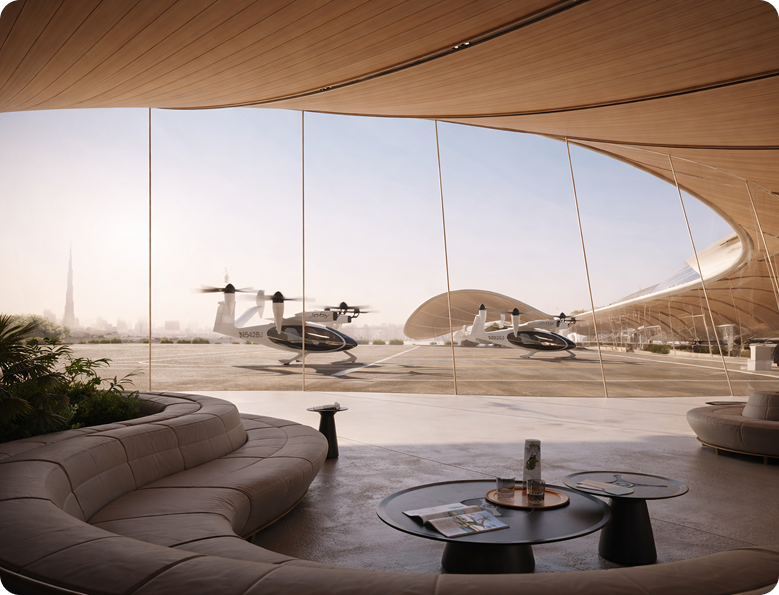
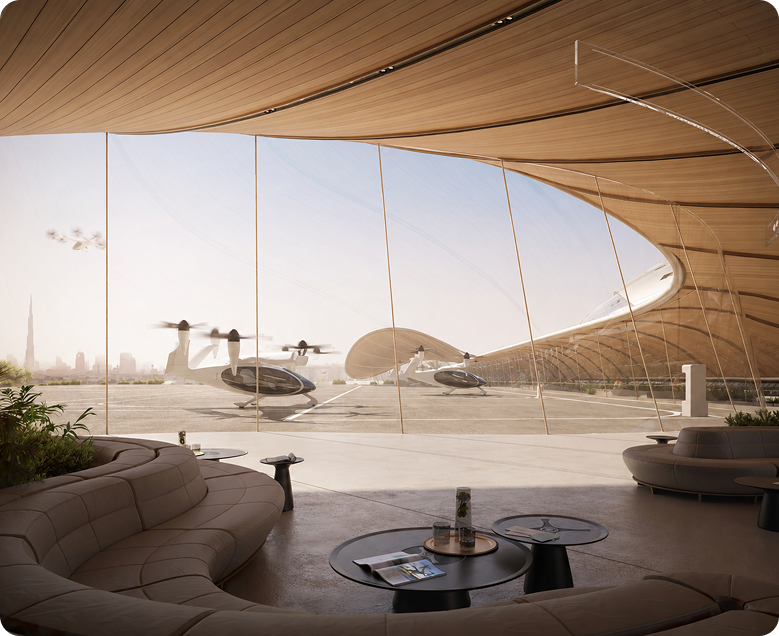
Why Choose Us

diff --git a/components/why-choose-us.tsx b/components/why-choose-us.tsx
@@ -1,19 +1,18 @@
 import Image from "next/image";
-import SectionHeading from "./ui/section-heading";
 import Button from "./ui/grad-button";
-import { ShieldCheck, Settings, Globe, Briefcase } from "lucide-react";
+import SectionHeading from "./ui/section-heading";
 
 const features = [
     {
         title: "Engineered for Compliance & Safety",
-        description: "Our products are designed and manufactured to meet international aviation and safety standards. From lighting systems to structural components, every solution is built to ensure safe operations and regulatory confidence from day one.",
+        description: "Every solution is carefully designed to meet international aviation standards while ensuring safe, stable, and efficient helideck operations. Our systems are developed to support reliable performance while maintaining strict safety and operational compliance requirements.",
         icon: <svg xmlns="http://www.w3.org/2000/svg" width="30" height="30" viewBox="0 0 30 30" fill="none">
             <path fillRule="evenodd" clipRule="evenodd" d="M18.2303 20.9811C18.2303 21.0902 18.1869 21.1948 18.1098 21.2719C18.0327 21.349 17.9281 21.3924 17.819 21.3925L12.3469 21.3926C12.2378 21.3925 12.1333 21.3492 12.0561 21.272C11.979 21.1949 11.9356 21.0903 11.9356 20.9812C11.9356 20.8721 11.979 20.7675 12.0561 20.6904C12.1333 20.6133 12.2378 20.5699 12.3469 20.5699L17.819 20.5697C17.9281 20.5698 18.0327 20.6132 18.1098 20.6903C18.1869 20.7674 18.2303 20.872 18.2303 20.9811ZM28.3012 21.6005C28.5151 21.5239 28.6263 21.2879 28.5497 21.0748C28.5129 20.9721 28.4368 20.8881 28.3382 20.8414C28.2396 20.7947 28.1264 20.789 28.0236 20.8256L26.5428 21.3566C27.6139 19.4169 28.1749 17.2416 28.1749 14.9998C28.1747 7.71905 22.28 1.82502 14.9997 1.8252C12.359 1.82526 9.81114 2.60334 7.6317 4.07622C7.58693 4.10649 7.54857 4.14529 7.5188 4.1904C7.48903 4.23551 7.46844 4.28604 7.45821 4.33911C7.44798 4.39218 7.44831 4.44674 7.45918 4.49968C7.47004 4.55263 7.49124 4.60291 7.52154 4.64766C7.64802 4.83552 7.90416 4.88502 8.09232 4.75788C10.1352 3.37752 12.5236 2.64798 14.9998 2.64792C21.8105 2.64774 27.352 8.18861 27.3522 14.9998C27.3523 17.1962 26.7781 19.3237 25.6847 21.2024L25.0463 19.4194C24.9694 19.2055 24.7337 19.0943 24.5203 19.1713C24.4694 19.1894 24.4226 19.2174 24.3826 19.2537C24.3425 19.2899 24.3101 19.3337 24.287 19.3826C24.2639 19.4314 24.2507 19.4843 24.2481 19.5383C24.2455 19.5922 24.2535 19.6461 24.2718 19.697L25.1944 22.2718C25.2715 22.4912 25.5071 22.6024 25.7263 22.523L28.3012 21.6005ZM22.4785 25.3524C22.4483 25.3077 22.4095 25.2693 22.3645 25.2396C22.3194 25.2099 22.269 25.1893 22.216 25.1791C22.163 25.1688 22.1085 25.1691 22.0556 25.18C22.0027 25.1908 21.9525 25.2119 21.9077 25.2422C19.8649 26.6225 17.4757 27.3521 15.0003 27.3521C8.18886 27.3524 2.64732 21.8111 2.64714 15.0004C2.64708 12.8039 3.22128 10.6764 4.31496 8.79774L4.95372 10.5804C5.03064 10.7945 5.26596 10.9058 5.4798 10.8289C5.53065 10.8107 5.57741 10.7826 5.61742 10.7464C5.65743 10.7101 5.6899 10.6663 5.71298 10.6175C5.73605 10.5687 5.74928 10.5158 5.7519 10.4618C5.75452 10.4079 5.74649 10.354 5.72826 10.3031L4.80498 7.7283C4.72986 7.50942 4.48914 7.3968 4.27302 7.47708L1.69884 8.39964C1.485 8.47626 1.3734 8.71152 1.45038 8.92536C1.46858 8.97624 1.49662 9.02304 1.53292 9.06307C1.56921 9.1031 1.61304 9.13559 1.66191 9.15867C1.71077 9.18174 1.7637 9.19496 1.81768 9.19756C1.87165 9.20016 1.92561 9.19209 1.97646 9.17382L3.45654 8.64354C2.38542 10.5832 1.82436 12.7582 1.82442 15.0004C1.8246 22.2804 7.7202 28.1751 15.0003 28.1749C17.641 28.1749 20.1885 27.3964 22.3679 25.9235C22.4127 25.8933 22.4511 25.8546 22.4809 25.8095C22.5107 25.7644 22.5313 25.7139 22.5416 25.6609C22.5519 25.6078 22.5516 25.5533 22.5408 25.5004C22.53 25.4474 22.5088 25.3971 22.4785 25.3524ZM18.6707 14.9237C18.6707 17.0231 16.9623 18.7317 14.8625 18.7318C12.7631 18.7318 11.0546 17.0233 11.0545 14.9239C11.0545 12.8238 12.7629 11.1156 14.8624 11.1155C16.0243 11.1155 17.0657 11.6391 17.7651 12.4625L14.9369 15.5359L13.3777 13.896C13.2214 13.7314 12.9608 13.7252 12.7962 13.8811C12.7173 13.9564 12.6715 14.0598 12.6687 14.1688C12.6659 14.2778 12.7064 14.3834 12.7813 14.4626L14.6434 16.4216C14.807 16.5943 15.0833 16.5916 15.244 16.4164L18.2378 13.1639C18.5227 13.7067 18.6713 14.3107 18.6707 14.9237ZM20.0471 9.98357C20.0836 9.94375 20.1276 9.91152 20.1765 9.88874C20.2255 9.86596 20.2785 9.85308 20.3325 9.85082C20.3864 9.84857 20.4403 9.857 20.491 9.87562C20.5417 9.89424 20.5882 9.92269 20.6279 9.95934C20.6677 9.99584 20.6999 10.0399 20.7226 10.0888C20.7454 10.1378 20.7582 10.1908 20.7605 10.2448C20.7627 10.2987 20.7542 10.3526 20.7356 10.4033C20.7169 10.454 20.6885 10.5005 20.6518 10.5401L18.8234 12.527C19.2623 13.2493 19.4941 14.0785 19.4934 14.9237C19.4935 17.4768 17.416 19.5541 14.8625 19.5541C12.3095 19.5542 10.2319 17.477 10.2318 14.9239C10.2317 12.3706 12.3092 10.2929 14.8623 10.2928C16.2388 10.2928 17.4763 10.8971 18.3251 11.8536L20.0471 9.98357ZM21.4661 18.4166C22.384 15.5076 22.3237 12.0393 22.239 8.93388C19.6969 8.51298 17.1015 7.6284 14.9998 6.3942C12.8968 7.62876 10.3027 8.51316 7.76004 8.93424C7.67556 12.0397 7.61604 15.508 8.53416 18.4173C9.54546 21.6218 11.6616 23.725 15.0003 24.844C18.3389 23.7248 20.4542 21.6215 21.4661 18.4166ZM22.7012 8.1735C20.0779 7.78332 17.3525 6.86442 15.2136 5.56314C15.1492 5.52387 15.0752 5.5031 14.9998 5.5031C14.9243 5.5031 14.8503 5.52387 14.7859 5.56314C12.6603 6.85962 9.91032 7.78632 7.29768 8.17392C7.20213 8.18815 7.11463 8.23559 7.05057 8.30791C6.9865 8.38023 6.94996 8.4728 6.94734 8.56938C6.85734 11.8256 6.75588 15.5164 7.74984 18.6648C8.8599 22.1819 11.1899 24.4726 14.873 25.6681C14.9555 25.6953 15.0446 25.6953 15.1271 25.6681C18.8102 24.4724 21.1403 22.1816 22.2503 18.6645C23.2438 15.5161 23.1418 11.8253 23.0516 8.56908C23.0492 8.47242 23.0127 8.37971 22.9486 8.30733C22.8845 8.23494 22.7969 8.18754 22.7012 8.1735Z" fill="black" />
         </svg>
     },
     {
         title: "Manufacturing-Driven Quality",
-        description: "Our products are designed and manufactured to meet international aviation and safety standards. From lighting systems to structural components, every solution is built to ensure safe operations and regulatory confidence from day one.",
+        description: "We combine durable materials, precision engineering, and detailed quality control processes to deliver systems built for long-term performance. Every component is manufactured with consistency and accuracy to ensure dependable operation across demanding project environments.",
         icon: <svg xmlns="http://www.w3.org/2000/svg" width="30" height="30" viewBox="0 0 30 30" fill="none">
             <g clipPath="url(#clip0_791_49396)">
                 <path d="M20.7022 20.6579V18.2127H19.1896C19.0919 17.5176 18.9099 16.8371 18.6476 16.1861L19.9566 15.4304L18.7338 13.3129L17.4231 14.0694C16.99 13.5175 16.492 13.0196 15.94 12.5865L16.6967 11.2761L14.5787 10.0535L13.823 11.3622C13.1718 11.1 12.4912 10.9181 11.796 10.8204V9.30805H9.35037V10.8204C8.65522 10.9181 7.97455 11.1 7.32339 11.3622L6.56765 10.0535L4.44967 11.2761L5.20634 12.5865C4.65433 13.0196 4.15639 13.5175 3.72322 14.0694L2.41254 13.3129L1.18969 15.4304L2.49868 16.1861C2.23639 16.8371 2.05442 17.5176 1.9568 18.2127H0.444092V20.6579H1.9568C2.05442 21.3529 2.23639 22.0335 2.49868 22.6845L1.18969 23.4401L2.41254 25.5577L3.72322 24.8011C4.15639 25.3531 4.65433 25.8509 5.20634 26.284L4.44967 27.5944L6.56765 28.817L7.32339 27.5083C7.97453 27.7705 8.65521 27.9525 9.35037 28.0501V29.5625H11.796V28.0501C12.4912 27.9525 13.1718 27.7705 13.823 27.5083L14.5787 28.817L16.6967 27.5944L15.94 26.284C16.492 25.851 16.99 25.3531 17.4231 24.8011L18.7338 25.5577L19.9566 23.4401L18.6476 22.6845C18.9099 22.0335 19.0919 21.3529 19.1896 20.6579H20.7022Z" stroke="black" strokeWidth="0.75" strokeMiterlimit="10" strokeLinejoin="round" />
@@ -41,14 +40,14 @@ const features = [
     },
     {
         title: "Proven in Real-World Installations",
-        description: "Our products are designed and manufactured to meet international aviation and safety standards. From lighting systems to structural components, every solution is built to ensure safe operations and regulatory confidence from day one.",
+        description: "Our solutions are successfully implemented across offshore platforms, rooftop helipads, and industrial aviation facilities worldwide. These completed installations demonstrate our practical experience in delivering reliable systems for complex operational environments and requirements.",
         icon: <svg xmlns="http://www.w3.org/2000/svg" width="30" height="30" viewBox="0 0 30 30" fill="none">
             <path fillRule="evenodd" clipRule="evenodd" d="M25.6165 12.0168C25.6162 12.0219 25.6162 12.0269 25.6155 12.0319L25.4142 19.7553C25.4018 20.0592 25.1287 20.2993 24.8832 20.4545L20.827 23.0088C20.7699 23.0448 20.7228 23.0946 20.6902 23.1536C20.6575 23.2127 20.6403 23.279 20.6402 23.3465V24.4009H16.8068V21.1598C16.8122 20.9575 17.3922 20.373 17.7545 20.1555L21.8313 17.8392C21.8335 17.8382 21.8357 17.8369 21.8377 17.8355C21.9986 17.7402 22.1501 17.7183 22.3239 17.7658C22.4094 17.8315 22.4808 17.9298 22.5393 18.0638C22.5447 18.0813 22.5504 18.0985 22.5579 18.1156C22.6175 18.2524 22.5942 18.3822 22.5549 18.4261C22.4562 18.5308 22.2966 18.6483 22.0812 18.7742L19.8548 20.0667C19.5023 20.2712 19.6513 20.8111 20.0554 20.8111C20.1257 20.8111 20.1947 20.7924 20.2554 20.7569L22.4828 19.4641C22.7603 19.3021 22.9686 19.1466 23.1204 18.9894C23.2908 18.8358 23.4228 18.513 23.3844 18.1527L23.5419 18.0585C23.8692 17.8282 24.0689 17.473 24.1341 17.003C24.1341 17.001 24.1348 16.9986 24.1348 16.9966L24.5088 13.9352L24.7458 12.1C24.7745 11.9973 24.801 11.8639 24.8317 11.7121C24.8694 11.5236 24.9465 11.1394 25.0071 11.0213C25.11 10.8908 25.3198 10.9057 25.4158 11.0742C25.5741 11.3455 25.6394 11.6535 25.6165 12.0168ZM21.3939 27.3742H16.1519V25.1993H21.3939V27.3742ZM26.1084 10.6768C25.9713 10.4301 25.7492 10.2577 25.4462 10.1637C25.422 10.1563 25.3972 10.1512 25.3721 10.1485C25.2317 10.1328 24.8112 10.0863 24.4671 10.4327C24.2459 10.6186 24.1625 10.9872 24.0486 11.5552C24.0213 11.6919 23.9934 11.8329 23.9719 11.9023C23.9293 12.0404 23.3981 16.4781 23.343 16.8958C23.3126 17.1259 23.217 17.3242 23.078 17.4069C22.9784 17.2728 22.782 17.0766 22.6283 17.0248C22.2189 16.8854 21.8058 16.9278 21.4337 17.1466L17.3566 19.4637C17.3411 19.4733 16.0082 20.3287 16.0082 21.1595V24.404C15.6423 24.435 15.3537 24.7423 15.3537 25.1161V27.4573C15.3537 27.8515 15.6746 28.1724 16.0692 28.1724H21.4769C21.8714 28.1724 22.1923 27.8515 22.1923 27.4573V25.1161C22.1923 24.7218 21.8714 24.401 21.4769 24.401H21.4388V23.5671L25.3095 21.1296C25.7807 20.8318 26.2049 20.3664 26.2125 19.7818L26.4138 12.0599C26.4447 11.5458 26.3424 11.0805 26.1084 10.6768ZM13.8481 27.3742H8.60644V25.1993H13.8481V27.3742ZM9.3592 23.3466C9.35926 23.2791 9.34222 23.2128 9.30966 23.1537C9.2771 23.0947 9.23008 23.0448 9.17302 23.0089L5.1181 20.4549C4.87078 20.2987 4.59802 20.0606 4.58548 19.7553L4.38418 12.0319C4.38418 12.0269 4.38418 12.0219 4.38352 12.0171C4.34878 11.6807 4.44022 11.3133 4.58956 11.0647C4.68652 10.9033 4.89802 10.8957 4.99258 11.0212C5.05384 11.1394 5.13094 11.5236 5.16868 11.7121C5.19898 11.8639 5.22556 11.9972 5.25454 12.0999L5.49058 13.9324L5.86594 17.0029C5.93128 17.4729 6.13054 17.8281 6.45814 18.0583L6.6157 18.1526C6.5773 18.5128 6.70966 18.8357 6.87964 18.9892C7.03078 19.1464 7.24024 19.302 7.51798 19.4646L9.74476 20.7568C9.79006 20.7832 9.84012 20.8003 9.89207 20.8073C9.94402 20.8143 9.99684 20.811 10.0475 20.7976C10.0982 20.7841 10.1457 20.7608 10.1873 20.729C10.229 20.6971 10.2639 20.6574 10.2902 20.612C10.3165 20.5667 10.3336 20.5166 10.3406 20.4647C10.3476 20.4128 10.3442 20.3599 10.3308 20.3093C10.3173 20.2586 10.294 20.2111 10.2622 20.1695C10.2304 20.1279 10.1907 20.0929 10.1454 20.0666L7.91962 18.7748C7.73662 18.6681 7.48612 18.4905 7.43146 18.4122C7.41262 18.3674 7.38334 18.2493 7.44226 18.1156C7.44944 18.0986 7.45573 18.0813 7.4611 18.0637C7.51936 17.9298 7.5904 17.8314 7.67656 17.7658C7.8493 17.7183 8.00176 17.7402 8.16238 17.8354C8.16442 17.8368 8.16676 17.8381 8.1688 17.8392L12.2453 20.1555C12.6082 20.373 13.1883 20.9574 13.1937 21.1594V24.4009H9.35998L9.3592 23.3466ZM13.9919 24.404V21.1595C13.9919 20.3289 12.6595 19.4733 12.6438 19.4637L8.5657 17.1466C8.19436 16.9275 7.78126 16.8854 7.37218 17.0248C7.2178 17.0768 7.0219 17.2725 6.92236 17.4069C6.78364 17.3261 6.68728 17.1249 6.65704 16.8962C6.60154 16.4761 6.07126 12.043 6.02812 11.9023C6.00688 11.833 5.97862 11.6919 5.95138 11.5552C5.83756 10.9873 5.75344 10.6186 5.53324 10.4328C5.18848 10.0863 4.7683 10.1328 4.6279 10.1486C4.60277 10.1513 4.57796 10.1564 4.5538 10.1638C4.25116 10.2577 4.0279 10.4301 3.89188 10.6765C3.65758 11.0802 3.55486 11.5458 3.58618 12.06L3.78748 19.7819C3.7951 20.3677 4.2193 20.8318 4.6918 21.1299L8.56084 23.5671L8.5615 24.4011H8.5231C8.12884 24.4011 7.80766 24.7219 7.80766 25.1161V27.4573C7.80766 27.8516 8.12884 28.1724 8.5231 28.1724H13.9311C14.3253 28.1724 14.6462 27.8516 14.6462 27.4573V25.1161C14.6463 24.7424 14.3582 24.435 13.9919 24.404ZM18.0868 8.3033C18.1662 8.23334 18.2146 8.13472 18.2214 8.02911C18.2281 7.92349 18.1927 7.81952 18.1228 7.74002C18.0528 7.6606 17.9541 7.61221 17.8485 7.60546C17.7428 7.59871 17.6388 7.63416 17.5592 7.70402L14.1534 10.7011L12.8862 9.2702C12.8159 9.19098 12.7171 9.1429 12.6114 9.13652C12.5058 9.13014 12.4019 9.16599 12.3226 9.23618C12.1576 9.38228 12.1428 9.63446 12.2886 9.79976L13.8198 11.5282C13.8898 11.6074 13.9883 11.6555 14.0938 11.6621C14.1993 11.6687 14.3031 11.6331 14.3823 11.5633L18.0868 8.3033ZM15.2052 13.7853C17.4943 13.7853 19.3571 11.9229 19.3571 9.6338C19.3571 7.34444 17.4943 5.48192 15.2052 5.48192C12.9162 5.48192 11.0541 7.34438 11.0541 9.6338C11.054 11.9229 12.9162 13.7853 15.2052 13.7853ZM20.1554 9.6338C20.1554 6.9044 17.9346 4.68368 15.2052 4.68368C12.4762 4.68368 10.2555 6.9044 10.2555 9.6338C10.2555 12.3632 12.4762 14.5836 15.2052 14.5836C17.9346 14.5836 20.1554 12.3632 20.1554 9.6338ZM13.0361 16.4609C13.7384 16.9168 14.4629 17.3868 15.2052 17.9443C15.9483 17.3868 16.6721 16.9168 17.3748 16.4609C19.8032 14.8849 21.5573 13.7463 21.5573 10.66V5.0039C19.7254 4.54232 17.5508 3.90332 15.2052 2.67818C12.8603 3.90302 10.6857 4.54232 8.85322 5.0039V10.66C8.85322 13.746 10.6079 14.8849 13.0361 16.4609ZM17.8094 17.1306C20.2493 15.5472 22.3555 14.1799 22.3555 10.66V4.92374C22.3555 4.5992 22.1407 4.32716 21.8212 4.2467C19.9729 3.7838 17.7636 3.1397 15.3931 1.87484C15.3353 1.84385 15.2708 1.82764 15.2052 1.82764C15.1397 1.82764 15.0752 1.84385 15.0174 1.87484C12.6468 3.1397 10.4376 3.78374 8.58994 4.2467C8.26978 4.32716 8.05498 4.5992 8.05498 4.92374V10.66C8.05498 14.1796 10.1619 15.5471 12.6011 17.1305C13.367 17.6274 14.1588 18.1415 14.9612 18.7617C15.0311 18.8158 15.117 18.8451 15.2054 18.8451C15.2938 18.8451 15.3798 18.8158 15.4497 18.7617C16.2516 18.1416 17.0435 17.6275 17.8094 17.1306Z" fill="black" />
         </svg>
     },
     {
         title: "Built to Support Your Project Goals",
-        description: "Our products are designed and manufactured to meet international aviation and safety standards. From lighting systems to structural components, every solution is built to ensure safe operations and regulatory confidence from day one.",
+        description: "Our solutions are successfully implemented across offshore platforms, rooftop helipads, and industrial aviation facilities worldwide. These completed installations demonstrate our practical experience in delivering reliable systems for complex operational environments and requirements.",
         icon: <svg xmlns="http://www.w3.org/2000/svg" width="30" height="30" viewBox="0 0 30 30" fill="none">
             <g clipPath="url(#clip0_791_49425)">
                 <path d="M29.0625 14.5898H27.6896C27.6153 12.2433 26.9037 9.99229 25.6174 8.03607L26.3764 7.27705C26.4261 7.22742 26.4621 7.16587 26.4812 7.0983C26.5002 7.03072 26.5016 6.95939 26.4852 6.89112C26.4688 6.82286 26.4351 6.75996 26.3874 6.70844C26.3397 6.65692 26.2796 6.61851 26.2128 6.59689L24.1457 5.92723C24.1352 5.91375 24.1242 5.90057 24.1117 5.8882C24.0993 5.87584 24.0862 5.86471 24.0727 5.85422L23.403 3.78715C23.3814 3.72035 23.343 3.66022 23.2915 3.61252C23.24 3.56482 23.1771 3.53115 23.1088 3.51473C23.0406 3.49831 22.9692 3.4997 22.9016 3.51875C22.8341 3.53781 22.7725 3.57389 22.7229 3.62355L21.9639 4.38252C20.0077 3.09627 17.7566 2.38465 15.4102 2.31035V0.9375C15.4102 0.82872 15.3669 0.724395 15.29 0.647476C15.2131 0.570557 15.1088 0.527344 15 0.527344C14.8912 0.527344 14.7869 0.570557 14.71 0.647476C14.6331 0.724395 14.5898 0.82872 14.5898 0.9375V2.31059C11.3522 2.41266 8.32324 3.721 6.02209 6.02209C3.72105 8.32324 2.41271 11.3522 2.31064 14.5898H0.9375C0.82872 14.5898 0.724395 14.6331 0.647476 14.71C0.570557 14.7869 0.527344 14.8912 0.527344 15C0.527344 15.1088 0.570557 15.2131 0.647476 15.29C0.724395 15.3669 0.82872 15.4102 0.9375 15.4102H2.3107C2.41277 18.6478 3.72111 21.6767 6.02221 23.9778C8.32336 26.2789 11.3523 27.5872 14.5899 27.6894V29.0625C14.5899 29.1713 14.6331 29.2756 14.71 29.3525C14.787 29.4294 14.8913 29.4727 15.0001 29.4727C15.1088 29.4727 15.2132 29.4294 15.2901 29.3525C15.367 29.2756 15.4102 29.1713 15.4102 29.0625V27.6894C18.6479 27.5873 21.6768 26.2789 23.978 23.9778C26.2791 21.6768 27.5874 18.6478 27.6895 15.4102H29.0625C29.1713 15.4102 29.2756 15.3669 29.3525 15.29C29.4294 15.2131 29.4727 15.1088 29.4727 15C29.4727 14.8912 29.4294 14.7869 29.3525 14.71C29.2756 14.6331 29.1713 14.5898 29.0625 14.5898ZM23.5599 8.9335L22.1146 8.46533L23.8774 6.7026L25.3226 7.17082L23.5599 8.9335ZM21.7048 12.2229C22.1084 13.1972 23.0132 13.8025 24.0663 13.8025C24.1265 13.8025 24.1843 13.8265 24.2269 13.8691C24.2695 13.9117 24.2934 13.9694 24.2935 14.0297V15.9703C24.2934 16.0306 24.2695 16.0883 24.2269 16.131C24.1843 16.1736 24.1265 16.1975 24.0663 16.1976C23.0132 16.1976 22.1084 16.8029 21.7048 17.7772C21.3012 18.7515 21.513 19.8193 22.2577 20.564C22.3005 20.6069 22.3242 20.664 22.3242 20.7247C22.3242 20.7854 22.3007 20.8424 22.2577 20.8853L20.8853 22.2577C20.7995 22.3436 20.6498 22.3435 20.564 22.2577C19.8194 21.513 18.7515 21.3013 17.7772 21.7048C16.8029 22.1084 16.1976 23.0132 16.1976 24.0663C16.1975 24.1265 16.1736 24.1843 16.131 24.2269C16.0883 24.2695 16.0306 24.2934 15.9703 24.2935H14.0297C13.9694 24.2934 13.9117 24.2695 13.8691 24.2269C13.8265 24.1843 13.8025 24.1265 13.8025 24.0663C13.8025 23.0122 13.1974 22.1067 12.2235 21.7032C11.2495 21.2999 10.1815 21.5123 9.43606 22.2577C9.35021 22.3436 9.20051 22.3435 9.11473 22.2577L7.7424 20.8853C7.69982 20.8427 7.67591 20.7849 7.67591 20.7247C7.67591 20.6644 7.69982 20.6066 7.7424 20.564C8.48701 19.8193 8.69883 18.7515 8.29529 17.7772C7.8917 16.8029 6.98684 16.1976 5.93379 16.1976C5.87353 16.1975 5.81576 16.1736 5.77316 16.131C5.73056 16.0883 5.70661 16.0306 5.70656 15.9703V14.0297C5.70662 13.9694 5.73058 13.9117 5.77318 13.8691C5.81578 13.8265 5.87354 13.8025 5.93379 13.8025C6.98684 13.8025 7.8917 13.1972 8.29529 12.2229C8.69889 11.2485 8.48701 10.1807 7.7424 9.43606C7.69982 9.39343 7.67591 9.33564 7.67591 9.27539C7.67591 9.21514 7.69982 9.15735 7.7424 9.11473L9.11467 7.7424C9.15732 7.69985 9.21511 7.67595 9.27536 7.67595C9.33561 7.67595 9.3934 7.69985 9.43606 7.7424C10.1807 8.48701 11.2486 8.69877 12.2229 8.29529C13.1972 7.8917 13.8025 6.98684 13.8025 5.93379C13.8025 5.87354 13.8265 5.81578 13.8691 5.77318C13.9117 5.73058 13.9694 5.70662 14.0297 5.70656H15.9703C16.0306 5.70661 16.0883 5.73056 16.131 5.77316C16.1736 5.81576 16.1975 5.87353 16.1976 5.93379C16.1976 6.98684 16.8029 7.8917 17.7772 8.29529C18.7515 8.69889 19.8193 8.48701 20.5639 7.7424C20.579 7.72734 20.5958 7.71475 20.6139 7.70467L20.8835 8.5367L18.9898 10.4304C17.9222 9.49717 16.5261 8.9308 15.0001 8.9308C11.6535 8.9308 8.93086 11.6535 8.93086 15.0001C8.93086 18.3466 11.6535 21.0693 15.0001 21.0693C18.3466 21.0693 21.0693 18.3466 21.0693 15.0001C21.0693 13.474 20.503 12.0779 19.5698 11.0104L21.4635 9.11666L22.2955 9.38619C22.2853 9.40449 22.2726 9.42129 22.2578 9.43611C21.513 10.1807 21.3012 11.2485 21.7048 12.2229ZM16.0303 15C16.0303 15.568 15.5681 16.0301 15.0001 16.0301C14.432 16.0301 13.9699 15.568 13.9699 15C13.9699 14.4319 14.432 13.9697 15 13.9697C15.1334 13.9697 15.2606 13.9961 15.3776 14.0424L14.71 14.71C14.6719 14.7481 14.6417 14.7933 14.6211 14.8431C14.6005 14.8928 14.5899 14.9461 14.5899 15C14.5899 15.0539 14.6005 15.1072 14.6211 15.1569C14.6417 15.2067 14.6719 15.2519 14.71 15.29C14.7901 15.3701 14.8951 15.4102 15 15.4102C15.1049 15.4102 15.2099 15.3701 15.29 15.29L15.9575 14.6224C16.0054 14.7425 16.0301 14.8707 16.0303 15ZM15.9853 13.4347C15.6906 13.2481 15.3489 13.1491 15 13.1494C13.9796 13.1494 13.1496 13.9796 13.1496 15C13.1496 16.0204 13.9797 16.8504 15.0001 16.8504C16.0204 16.8504 16.8506 16.0204 16.8506 15C16.8506 14.638 16.7457 14.3003 16.5653 14.0147L17.4896 13.0904C17.8967 13.6199 18.1396 14.282 18.1396 15C18.1396 16.7312 16.7312 18.1395 15.0001 18.1395C13.2689 18.1395 11.8604 16.7312 11.8604 15C11.8604 13.2688 13.2688 11.8604 14.9999 11.8604C15.7179 11.8604 16.3801 12.1033 16.9096 12.5104L15.9853 13.4347ZM17.4934 11.9266C16.8121 11.3729 15.9443 11.0401 15 11.0401C12.8165 11.0401 11.0402 12.8165 11.0402 15C11.0402 17.1835 12.8166 18.9598 15.0001 18.9598C17.1836 18.9598 18.9599 17.1835 18.9599 15C18.9599 14.0557 18.6271 13.1879 18.0734 12.5067L18.9884 11.5917C19.7739 12.5094 20.249 13.7002 20.249 15C20.249 17.8943 17.8944 20.2489 15.0001 20.2489C12.1059 20.2489 9.75105 17.8943 9.75105 15C9.75105 12.1057 12.1057 9.75105 14.9999 9.75105C16.2998 9.75105 17.4906 10.2262 18.4083 11.0116L17.4934 11.9266ZM22.8292 4.6773L23.2974 6.12258L21.5347 7.88531L21.0665 6.44004L22.8292 4.6773ZM15 26.8762C8.45133 26.8762 3.12369 21.5486 3.12369 15C3.12369 8.45162 8.45086 3.12416 14.9991 3.12369L15.0001 3.12375L15.001 3.12369C17.2764 3.12387 19.4681 3.76277 21.371 4.97555L20.309 6.03756C20.2555 6.09098 20.2179 6.15814 20.2002 6.23162C20.1825 6.3051 20.1855 6.38203 20.2088 6.45393L20.3602 6.92109C20.2189 6.97348 20.0906 7.05572 19.984 7.16221C19.3797 7.76654 18.6101 7.75219 18.0912 7.53727C17.5724 7.3224 17.018 6.78826 17.018 5.93367C17.018 5.35605 16.548 4.88613 15.9704 4.88613H14.0298C13.4522 4.88613 12.9823 5.35605 12.9823 5.93367C12.9823 6.78826 12.4279 7.32234 11.9091 7.53727C11.3903 7.75219 10.6205 7.76654 10.0162 7.16221C9.60768 6.75375 8.94328 6.75387 8.53471 7.16221L7.16238 8.53459C6.75398 8.94311 6.75398 9.60762 7.16238 10.0161C7.76666 10.6203 7.75236 11.39 7.53744 11.9089C7.32252 12.4277 6.78844 12.9821 5.93385 12.9821C5.35623 12.9821 4.88631 13.4521 4.88631 14.0296V15.9703C4.88631 16.5479 5.35623 17.0179 5.93385 17.0179C6.78844 17.0179 7.32258 17.5722 7.53744 18.091C7.75236 18.6098 7.76666 19.3795 7.16238 19.9839C6.75398 20.3924 6.75398 21.0569 7.16238 21.4654L8.53471 22.8377C8.73258 23.0355 8.99566 23.1444 9.27551 23.1444C9.55535 23.1444 9.8185 23.0355 10.0163 22.8377C10.6215 22.2324 11.3912 22.2463 11.9098 22.461C12.4283 22.6758 12.9823 23.2103 12.9823 24.0662C12.9823 24.6438 13.4523 25.1138 14.0299 25.1138H15.9705C16.5481 25.1138 17.0181 24.6438 17.0181 24.0662C17.0181 23.2116 17.5724 22.6775 18.0912 22.4626C18.61 22.2478 19.3798 22.2334 19.984 22.8377C20.1819 23.0355 20.445 23.1444 20.7248 23.1444C21.0047 23.1444 21.2678 23.0355 21.4656 22.8377L22.8379 21.4654C22.9355 21.3683 23.0129 21.2528 23.0655 21.1257C23.1182 20.9985 23.1451 20.8622 23.1447 20.7246C23.1447 20.4448 23.0358 20.1816 22.838 19.9837C22.2337 19.3795 22.248 18.6098 22.4629 18.0909C22.6778 17.5721 23.2119 17.0178 24.0665 17.0178C24.6441 17.0178 25.114 16.5478 25.114 15.9702V14.0296C25.114 13.452 24.6441 12.982 24.0665 12.982C23.2119 12.982 22.6778 12.4277 22.4629 11.9089C22.248 11.39 22.2337 10.6203 22.8379 10.016C22.9444 9.90942 23.0267 9.78109 23.0791 9.63978L23.5462 9.79113C23.6181 9.81443 23.6951 9.8174 23.7686 9.79972C23.842 9.78204 23.9092 9.74439 23.9626 9.69094L25.0246 8.62893C26.2376 10.5321 26.8765 12.7241 26.8765 14.9999C26.8763 21.5486 21.5486 26.8762 15 26.8762Z" fill="black" />
